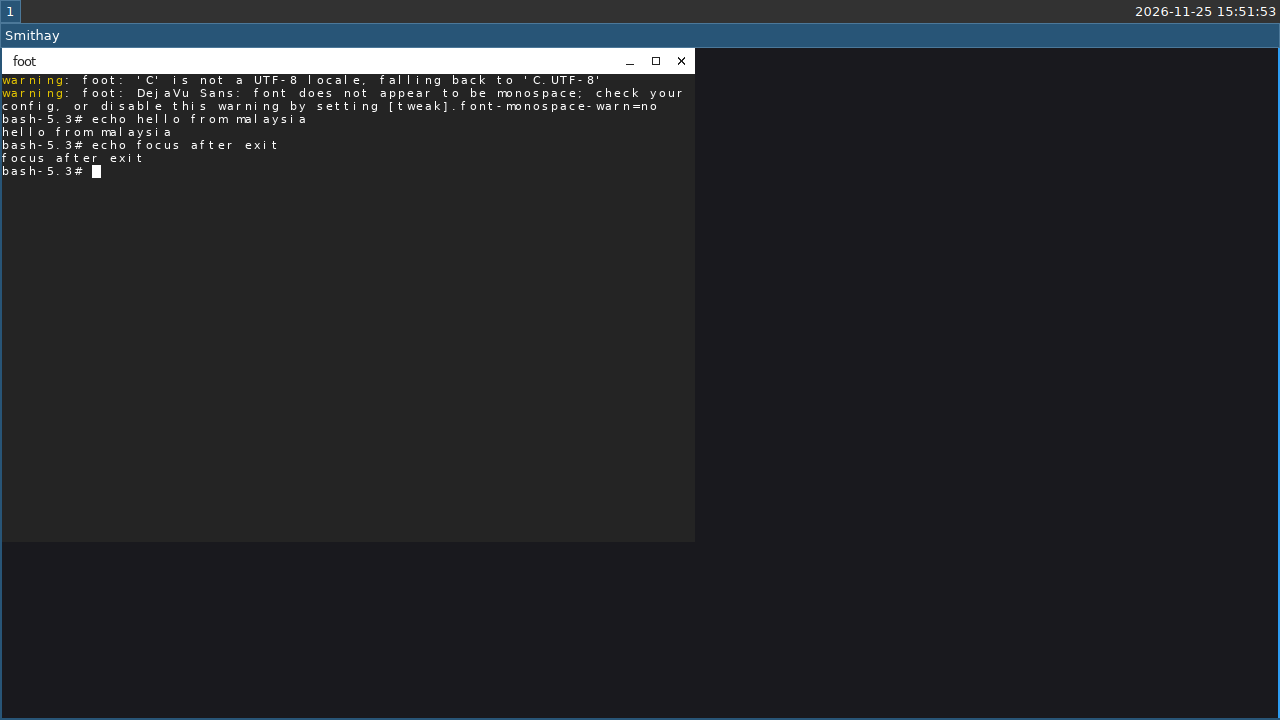
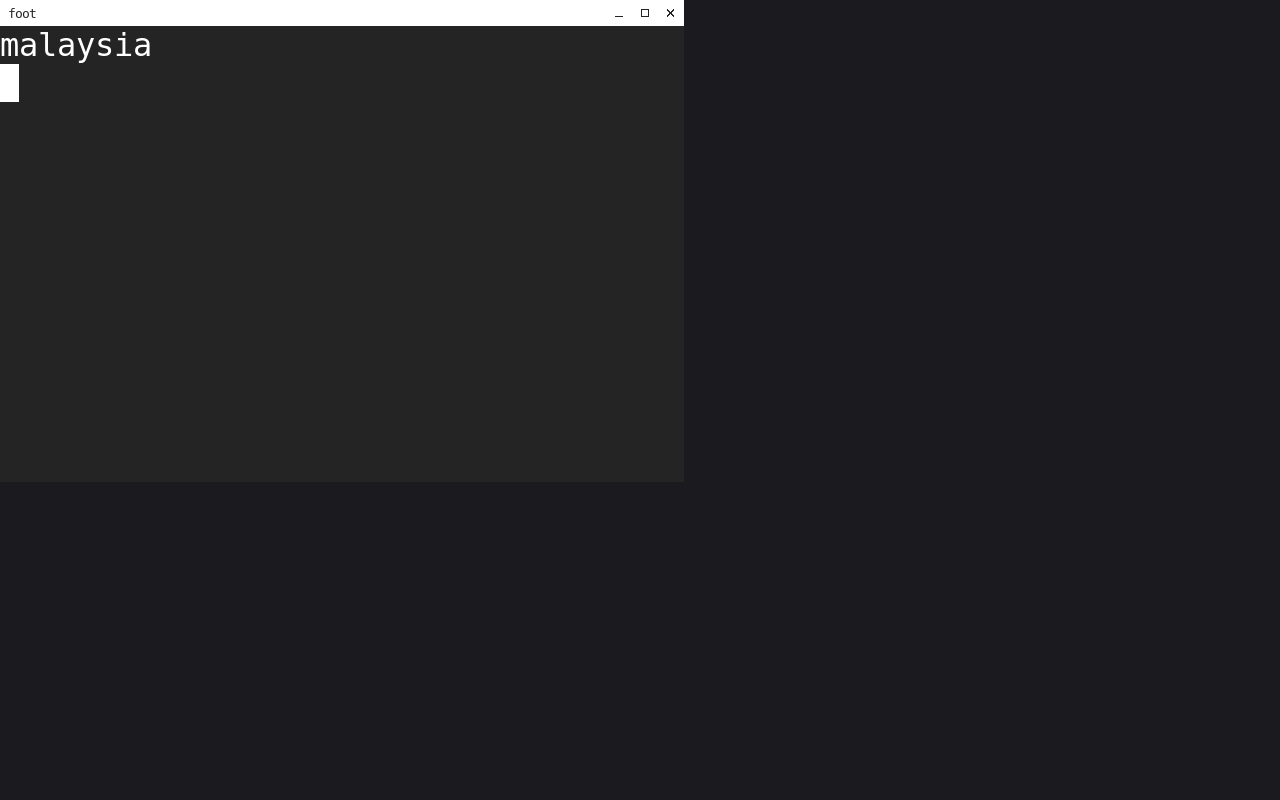
Feature: a Nix package and a NixOS machine check
The flake builds the compositor as a package and gains a check that boots NixOS under QEMU, runs the compositor directly on the virtio GPU and waits until a terminal is on the screen. It proves that GLES through GBM works there with Mesa's software renderer, before any session code exists.

vm.sh test runs the check in the box and copies its screenshots out.

Changed region(s): [[0.0, 0.0, 1.0, 0.2444], [0.0, 0.9778, 1.0, 1.0]]

diff --git a/ROADMAP.md b/ROADMAP.md
@@ -9,10 +9,10 @@ Last update: 2026-11-25.
 
 ## Where we are
 
-**Now:** step 7, the session, starting with the test machine.
+**Now:** step 7b, the session with libseat.
 
-The display after the last finished step (step 6: the compositor nested in
-another desktop, with the `foot` terminal taking typed text):
+The display after the last finished step (step 7a: the compositor directly on
+the virtual GPU of a NixOS machine, drawing the `foot` terminal):
 
 ![The display after the last finished step](screen.png)
 
@@ -23,9 +23,9 @@ another desktop, with the `foot` terminal taking typed text):
 | 3 | Logging with `tracing` | Smithay's warnings and the compositor's own messages | done `017f0a4` |
 | 4 | Windows: `wl_compositor`, `wl_shm`, `xdg_shell`, `wl_output` | an app drawn on the screen | done `80a5b31` |
 | 5 | Nested session: the winit backend returns and shares the frame code with DRM | the compositor inside another desktop | done `7f75682` |
-| 6 | Seat: keyboard and pointer | typing in a window | done |
-| 7a | A Nix package and a NixOS test machine | the compositor on a virtual GPU in a full Linux session | next |
-| 7b | Session with libseat | start from a TTY as a normal user, pause and resume on VT switch | to do |
+| 6 | Seat: keyboard and pointer | typing in a window | done `9427c17` |
+| 7a | A Nix package and a NixOS test machine | the compositor on a virtual GPU in a full Linux session | done |
+| 7b | Session with libseat | start from a TTY as a normal user, pause and resume on VT switch | next |
 | 8a | Devices with udev and libinput | real keyboard and mouse, the GPU found without an argument, Ctrl+Alt+Fn and Ctrl+Alt+Backspace | to do |
 | 8b | Cursor | a pointer that can be seen on a real display | to do |
 
@@ -48,7 +48,8 @@ With a device argument the compositor runs directly on that device. With no
 argument it runs nested when `WAYLAND_DISPLAY` or `DISPLAY` is set.
 
 The box has no seat, no udev and no real GPU. Steps 7 and 8 are checked in a
-NixOS virtual machine with a full Linux session, and what only real hardware can
+NixOS virtual machine with a full Linux session (`./vm.sh test dir` runs it
+and writes its screenshots to `dir`; it is the flake's `checks.<system>.vm`), and what only real hardware can
 prove is marked here as **not verified on hardware** until someone runs it.
 
 ## Known gaps

diff --git a/README.md b/README.md
@@ -30,6 +30,10 @@ WAYLAND_DISPLAY=wayland-2 foot
 `RUST_LOG` sets the log level per module, for example
 `RUST_LOG=smithay=debug`.
 
+`nix build` builds the compositor as a package. `nix build .#checks.<system>.vm`
+boots a NixOS machine, runs the compositor directly on its virtual GPU and
+checks that a terminal is drawn.
+
 On a Mac, `vm.sh` runs the same commands in a Linux box that has a virtual
 display and a headless desktop:
 
@@ -37,6 +41,7 @@ display and a headless desktop:
 ./vm.sh up
 ./vm.sh run nix develop -c cargo run -- /dev/dri/card0
 ./vm.sh shot screen.png
+./vm.sh test shots             # the NixOS machine check
 ```
 
 ## License

diff --git a/AGENTS.md b/AGENTS.md
@@ -162,6 +162,7 @@ with `grim` in the box or over VNC.
 ./vm.sh run nix develop -c cargo run -- /dev/dri/card0   # direct
 ./vm.sh run nix develop -c cargo run                     # nested
 ./vm.sh shot /tmp/malaysia.png                 # PNG of the vkms scanout
+./vm.sh test /tmp/shots                        # NixOS machine check, screenshots
 ./vm.sh sh                                     # shell in the box
 ./vm.sh down
 ```
